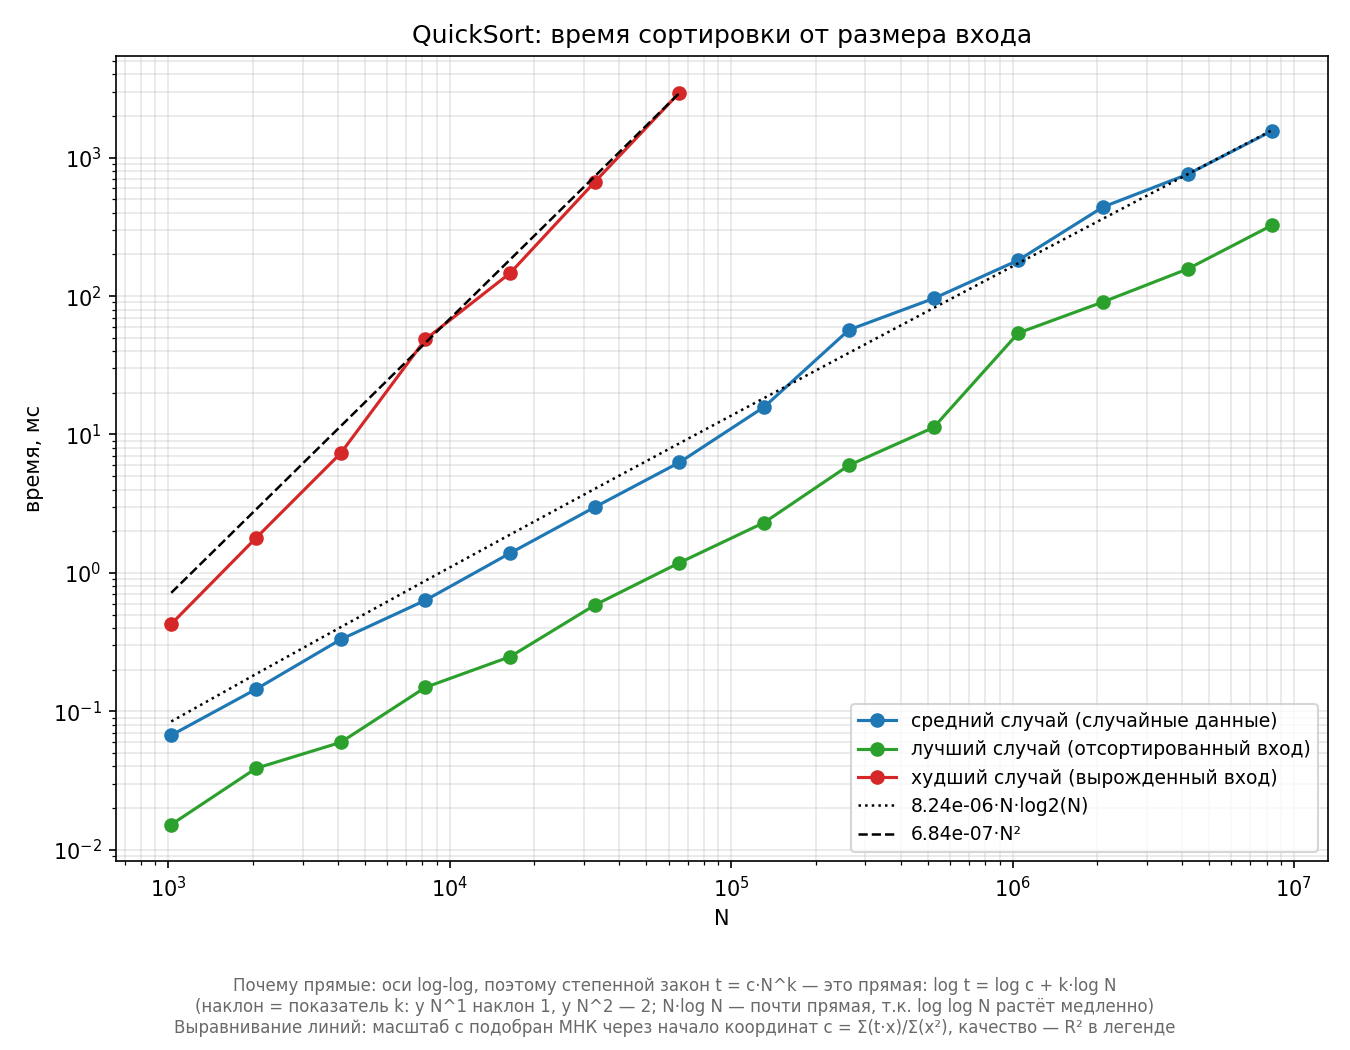
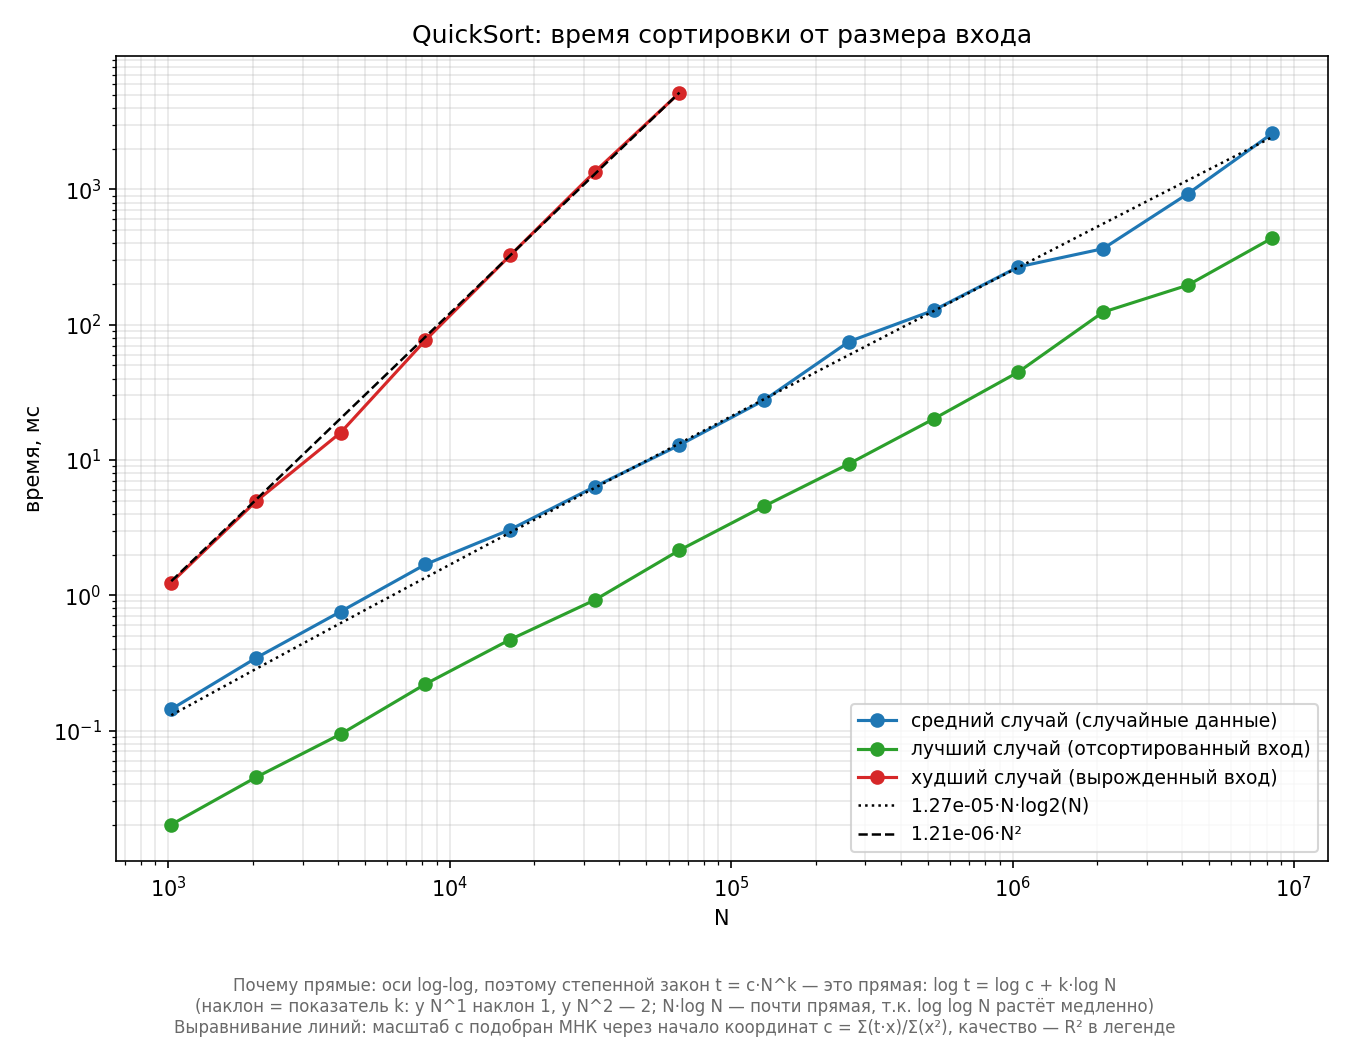
run-from-root commands, fix empty requirements.txt, fresh benchmark data + README table

diff --git a/practice-01/plot.py b/practice-01/plot.py
@@ -1,9 +1,10 @@
 """
 Построение графиков для practice-01 (QuickSort) из results/benchmark_results.csv.
 
-ЗАПУСК (из каталога practice-01):
-    python plot.py [путь/к/benchmark_results.csv]
-По умолчанию читает results/benchmark_results.csv; PNG сохраняются рядом с CSV.
+ЗАПУСК (можно из любого каталога, например из корня репозитория):
+    python practice-01/plot.py [путь/к/benchmark_results.csv]
+По умолчанию читает results/benchmark_results.csv рядом со скриптом;
+PNG всегда сохраняются рядом с CSV.
 
 -------------------------------------------------------------------------------
 ПОЧЕМУ НА ГРАФИКАХ ПРЯМЫЕ, А НЕ КРИВЫЕ
@@ -63,8 +64,11 @@ from matplotlib.ticker import FormatStrFormatter
 if hasattr(sys.stdout, "reconfigure"):
     sys.stdout.reconfigure(encoding="utf-8", errors="replace")
 
-# Путь к CSV: первый аргумент командной строки или значение по умолчанию
-CSV_PATH = sys.argv[1] if len(sys.argv) > 1 else os.path.join("results", "benchmark_results.csv")
+# Путь к CSV: первый аргумент командной строки или значение по умолчанию.
+# По умолчанию путь отсчитывается от КАТАЛОГА СКРИПТА, а не от текущего каталога —
+# тогда `python practice-01/plot.py` работает из корня репозитория и откуда угодно.
+_BASE = os.path.dirname(os.path.abspath(__file__))
+CSV_PATH = sys.argv[1] if len(sys.argv) > 1 else os.path.join(_BASE, "results", "benchmark_results.csv")
 # PNG сохраняются рядом с CSV (поэтому при ручном указании пути картинки попадут в его каталог)
 OUT_DIR = os.path.dirname(CSV_PATH) or "."
 

diff --git a/practice-01/src/main/java/org/example/Benchmark.java b/practice-01/src/main/java/org/example/Benchmark.java
@@ -42,7 +42,7 @@ public class Benchmark {
     /** Сколько «тренировочных» проходов делается перед замером: даёт JIT остыть и оптимизировать код. */
     private static final int WARMUP = 3;
     /** Фиксированный seed генератора случайных чисел — воспроизводимость «случайного» сценария. */
-    private static final long SEED = 1;
+    private static final long SEED = 20261003L;
     /** Минимальный экспонент: стартуем с N = 2^10 = 1024 (меньше — шум замеров не отличить от сигнала). */
     private static final int MIN_EXP = 10;
     /** Максимальный экспонент для sorted/random: до N = 2^23 (~8.4 млн элементов). */

diff --git a/practice-01/README.md b/practice-01/README.md
@@ -8,11 +8,16 @@
 
 | Сценарий | Наклон `t ~ Nᵏ` | R²(N·logN) | R²(N²) | Вывод |
 |---|---|---|---|---|
-| sorted | 1.13 | 0.994 | 0.887 | **O(n log n)** |
-| random | 1.14 | 0.997 | 0.893 | **O(n log n)** |
-| worst_case | 2.13 | 0.906 | 0.999 | **O(n²)** |
+| sorted | 1.11 | 0.996 | 0.910 | **O(n log n)** |
+| random | 1.05 | 0.981 | 0.972 | **O(n log n)** |
+| worst_case | 2.02 | 0.924 | 1.000 | **O(n²)** |
 
-Теория подтверждена: чья R² выше — тот закон лучше объясняет данные.
+**Как читать таблицу.** *Наклон k* — из прямой `log t = k·log N` на log-log графике: k ≈ 1 → рост около линейного, k ≈ 2 → квадратичный.
+*R²* — коэффициент детерминации (0…1), насколько точно теоретическая кривая `N·log₂N` или `N²` проходит через замеры: чем ближе к 1, тем лучше.
+Сравниваем два R² в строке: **чей больше — тот закон и описывает данные** (sorted: 0.996 > 0.910 → O(n log n); worst_case: 1.000 > 0.924 → O(n²)).
+Наклон — косвенная проверка, разница R² — прямое сравнение двух гипотез на одних точках.
+У random разрыв меньше (0.981 против 0.972): «случайные» замеры шумнее, но направление вывода то же.
+
 Сырой CSV и все 4 графика — в [`results/`](results/).
 
 ## Сценарии
@@ -32,12 +37,25 @@
 
 ## Запуск
 
-```bash
-# из корня репозитория
-mvn -pl practice-01 test          # тесты (51)
-mvn -pl practice-01 exec:exec     # замеры -> results/benchmark_results.csv
+Нужны **JDK 21, Maven, Python 3.10+**.
+Все команды выполняются **из корня репозитория** и без комментариев —
+так их можно запускать кликом прямо из README в IDE.
 
-# графики: из каталога practice-01
-pip install -r requirements.txt   # однократно
-python plot.py
+Тесты (51 шт.):
+
+```bash
+mvn -pl practice-01 test
+```
+
+Замеры (перезаписывает `practice-01/results/benchmark_results.csv`):
+
+```bash
+mvn -pl practice-01 compile exec:exec
+```
+
+Графики (зависимости ставятся один раз):
+
+```bash
+pip install -r practice-01/requirements.txt
+python practice-01/plot.py
 ```

diff --git a/README.md b/README.md
@@ -12,12 +12,25 @@ JDK 21 · Maven · Python 3.10+ (только для графиков)
 
 ## Быстрый старт
 
+Все команды выполняются **из корня репозитория**.
+
+Тесты всех практик:
+
 ```bash
-mvn test                          # тесты всех практик
-mvn -pl practice-01 exec:exec     # замеры -> practice-01/results/benchmark_results.csv
-cd practice-01
-pip install -r requirements.txt   # однократно, только для графиков
-python plot.py                    # 4 графика -> results/*.png
+mvn test
+```
+
+Замеры quicksort (пишет CSV в `practice-01/results/`):
+
+```bash
+mvn -pl practice-01 compile exec:exec
+```
+
+Графики (нужен Python; зависимости ставятся один раз):
+
+```bash
+pip install -r practice-01/requirements.txt
+python practice-01/plot.py
 ```
 
 Подробности каждой практики — в её `README.md`.
